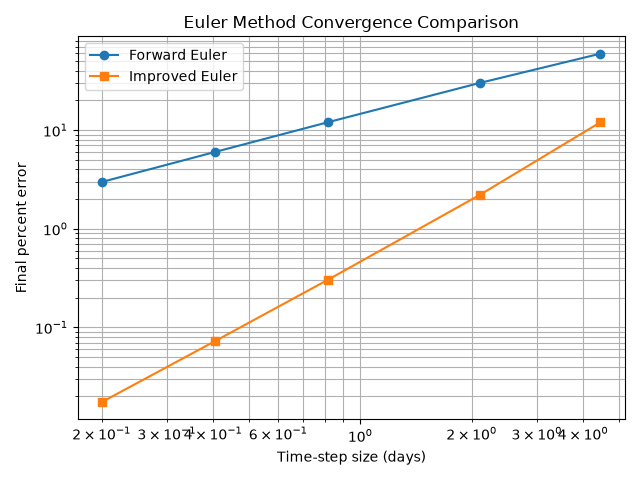
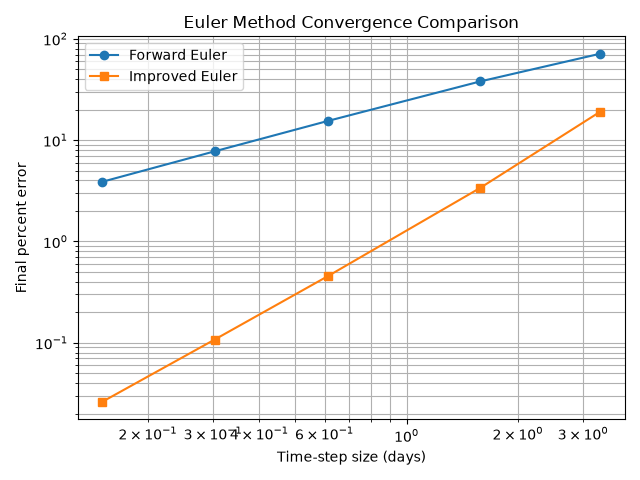
Add configurable decay simulation inputs

diff --git a/decay_simulation.py b/decay_simulation.py
@@ -1,5 +1,16 @@
 import numpy as np
 import matplotlib.pyplot as plt
+import argparse
+parser = argparse.ArgumentParser(description="Compare numerical methods for radioactive decay")
+parser.add_argument("--half-life", default=8.02, help="Isotope half-life in days")
+parser = argparse.ArgumentParser(description="Compare numerical methods for radioactive decay")
+parser.add_argument("--half-life",type=float,default=8.02)
+
+parser.add_argument("--initial-atoms",type=int,default=1_000_000)
+
+parser.add_argument("--days",type=float,default=40)
+
+args = parser.parse_args()
 
 # Foward Euler method
 def forward_euler(time, initial_value, decay_constant):
@@ -30,12 +41,13 @@ def improved_euler(time, initial_value, decay_constant):
     return result
 
 # Initial values
-atoms_initial = 1_000_000
-half_life = 8.02
+atoms_initial = args.initial_atoms
+duration = args.days
+half_life = args.half_life
 decay_constant = np.log(2) / half_life
 
 # Main and Euler solutions
-time = np.linspace(0, 40, 200)
+time = np.linspace(0, duration, 200)
 
 atoms = atoms_initial * np.exp(-decay_constant * time)
 atoms_euler = forward_euler(time,atoms_initial,decay_constant)
@@ -47,7 +59,7 @@ forward_errors = []
 improved_errors = []
 
 for points in point_counts:
-    test_time = np.linspace(0, 40, points)
+    test_time = np.linspace(0, duration, points)
 
     test_euler = forward_euler(test_time, atoms_initial, decay_constant)
 
